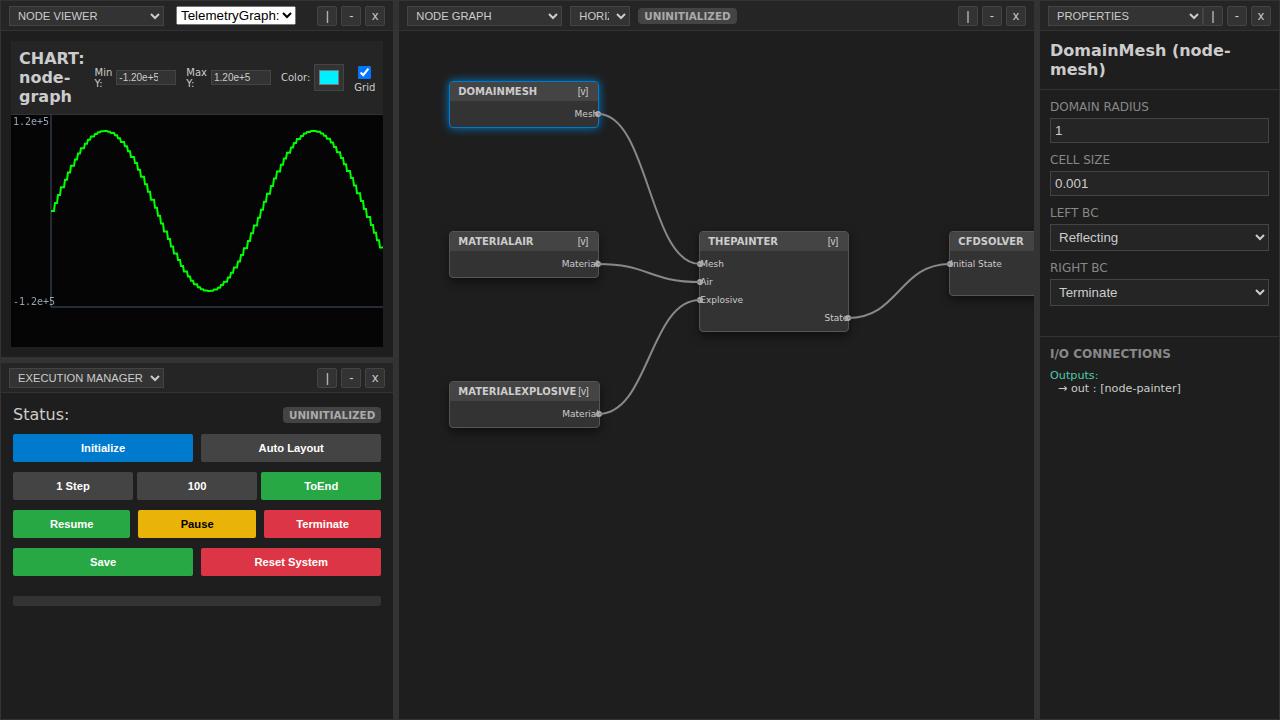
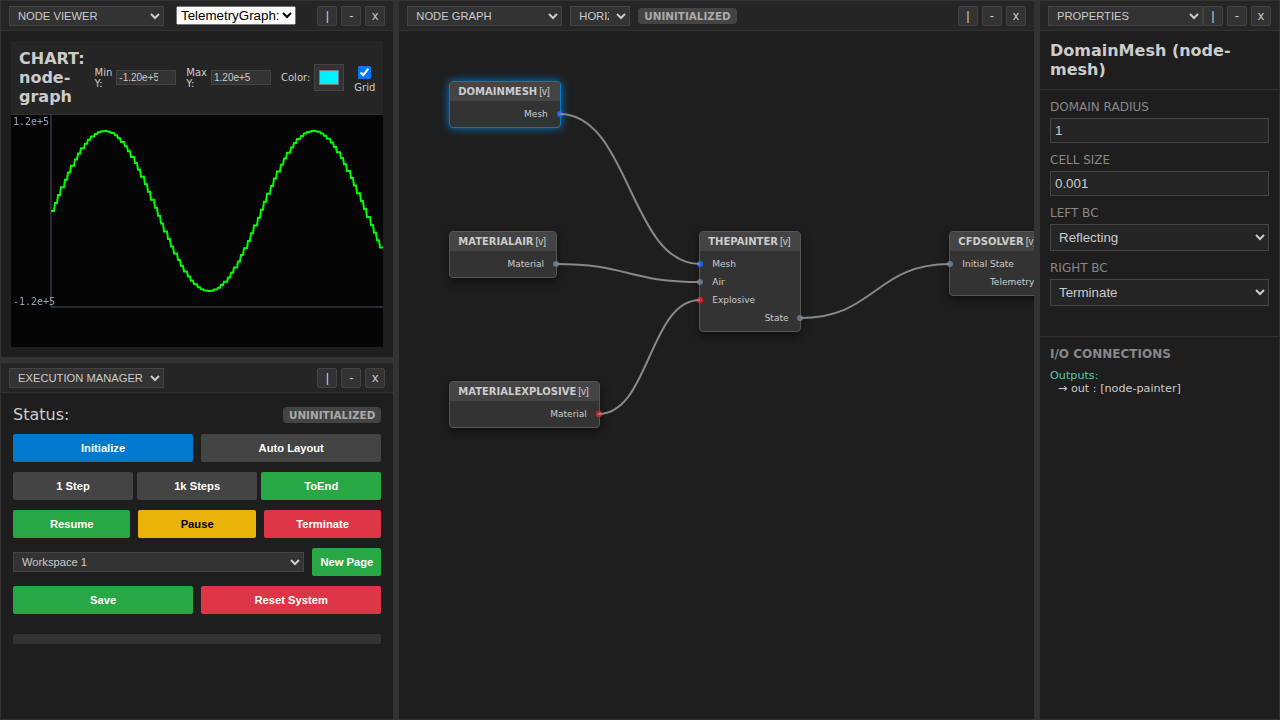
fix: resolve port label overlap and restore port color context
- Added `.port-label` CSS class with `12px` padding to prevent text from overlapping port bullets.
- Implemented `getPortColorClass` in `GraphRenderer` to map port types (Domain, Material, Explosive, Telemetry) to specific colors.
- Updated `syncNodes` to apply color classes to `.port-bullet` elements and use the `.port-label` class for port names.
- Verified fix via Playwright screenshot.

diff --git a/frontend/src/graph-renderer.ts b/frontend/src/graph-renderer.ts
@@ -539,7 +539,8 @@ export class GraphRenderer {
                     const p = document.createElement('div');
                     p.className = 'port input';
                     p.dataset.portId = input.id;
-                    p.innerHTML = `<div class="port-bullet" id="port-in-${node.id}-${input.id}"></div><span>${input.label}</span>`;
+                    const colorClass = this.getPortColorClass(node.type, input.id);
+                    p.innerHTML = `<div class="port-bullet ${colorClass}" id="port-in-${node.id}-${input.id}"></div><span class="port-label">${input.label}</span>`;
                     p.addEventListener('mouseup', () => {
                         if (this.isDraggingWire) {
                             state.connections.push({
@@ -557,7 +558,8 @@ export class GraphRenderer {
                     const p = document.createElement('div');
                     p.className = 'port output';
                     p.dataset.portId = output.id;
-                    p.innerHTML = `<span>${output.label}</span><div class="port-bullet" id="port-out-${node.id}-${output.id}"></div>`;
+                    const colorClass = this.getPortColorClass(node.type, output.id);
+                    p.innerHTML = `<span class="port-label">${output.label}</span><div class="port-bullet ${colorClass}" id="port-out-${node.id}-${output.id}"></div>`;
                     p.addEventListener('mousedown', (e) => {
                         e.stopPropagation();
                         this.isDraggingWire = true;
@@ -626,6 +628,13 @@ export class GraphRenderer {
                 this.svg.appendChild(path);
             }
         }
+    }
+
+    private getPortColorClass(nodeType: string, portId: string): string {
+        if (nodeType === 'DomainMesh' || portId === 'mesh') return 'domain';
+        if (nodeType === 'MaterialExplosive' || portId === 'explosive') return 'explosive';
+        if (portId === 'telemetry' || (portId === 'in' && (nodeType === 'TelemetryText' || nodeType === 'TelemetryGraph'))) return 'telemetry';
+        return 'material';
     }
 
     private getPortPosition(node: Node, portId: string, isInput: boolean): { x: number, y: number } | null {

diff --git a/frontend/styles.css b/frontend/styles.css
@@ -290,11 +290,16 @@ body {
     position: absolute;
 }
 
+.port-bullet.domain { background: #2563eb; }
+.port-bullet.material { background: #64748b; }
+.port-bullet.explosive { background: #dc2626; }
+.port-bullet.telemetry { background: #16a34a; }
+
 .port.input .port-bullet { left: -3px; }
 .port.output { justify-content: flex-end; }
 .port.output .port-bullet { right: -3px; }
 
-.port-label { padding: 0 8px; }
+.port-label { padding: 0 12px; }
 
 .node-content {
     overflow: hidden;
